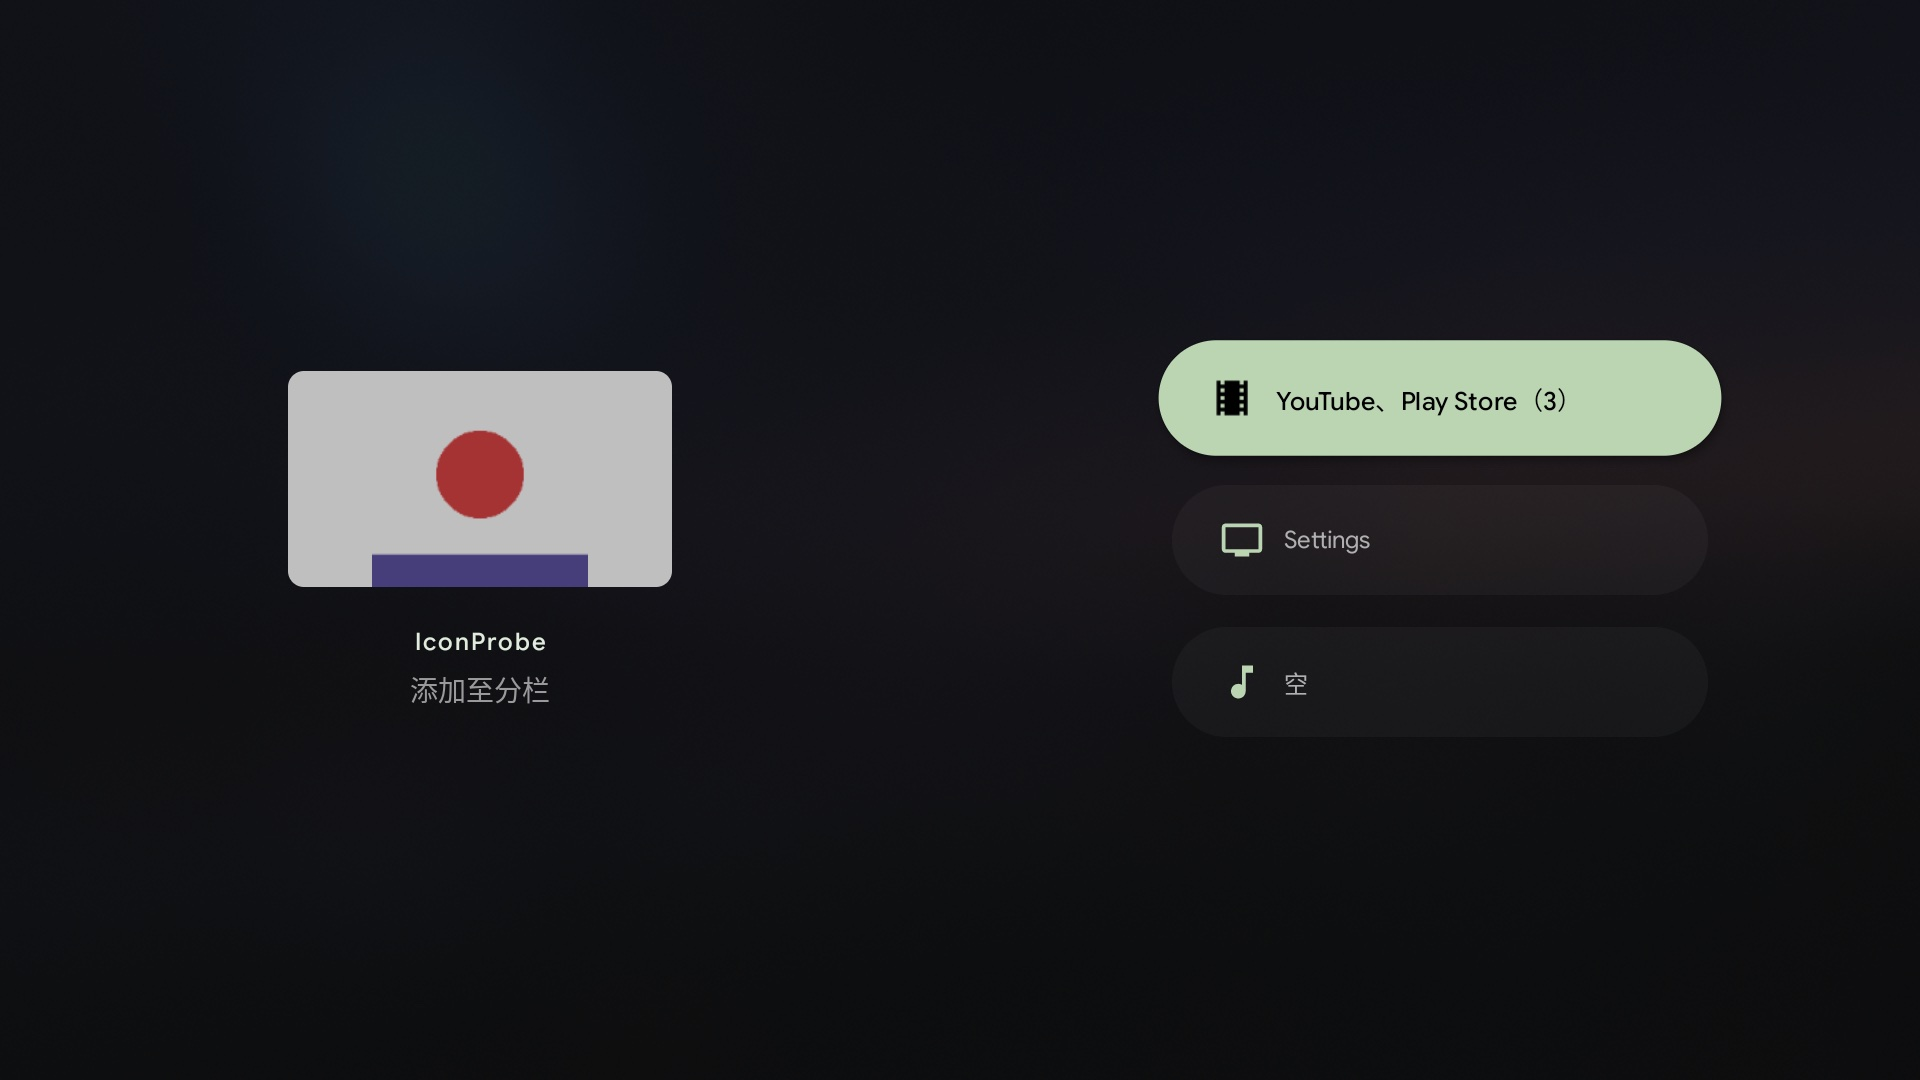
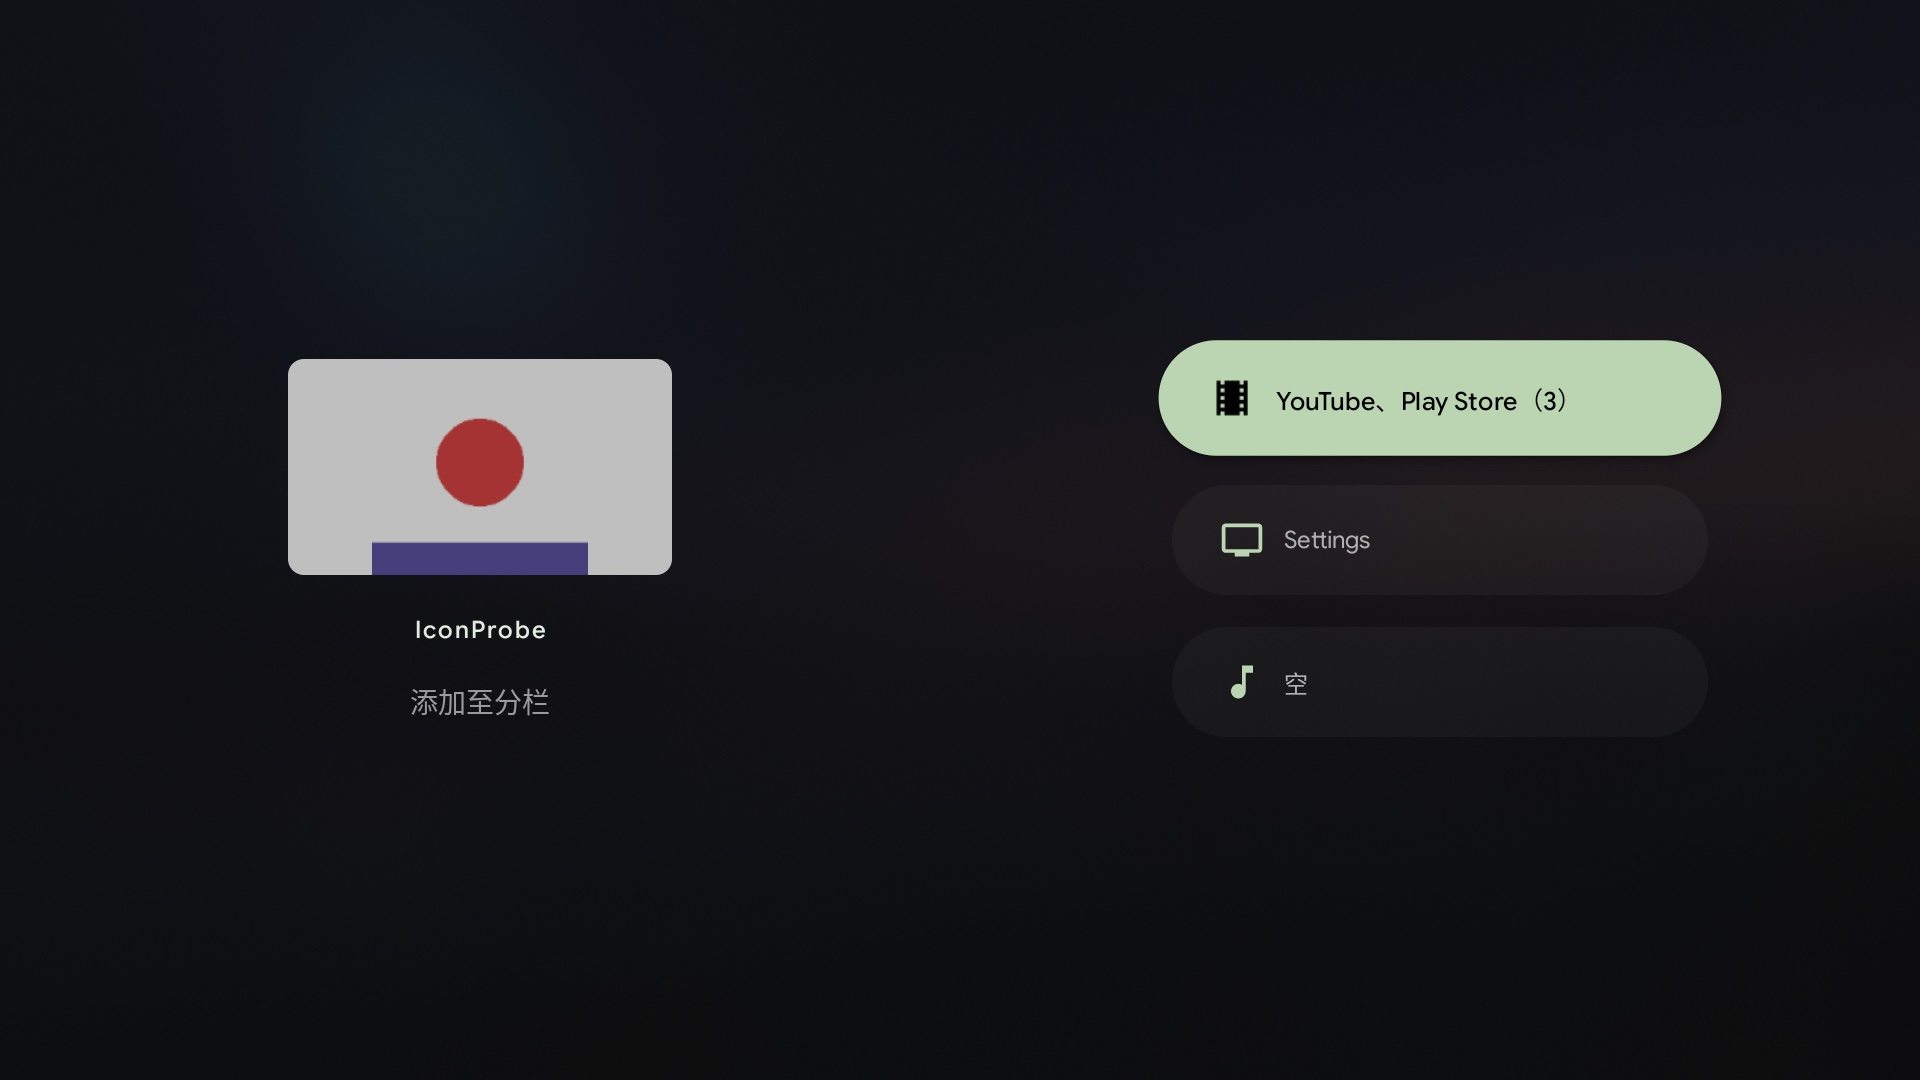
look: 「添加至分栏」与应用名拉开 18 dp

Changed region(s): [[0.1562, 0.3056, 0.3438, 0.4278], [0.1562, 0.4583, 0.3438, 0.55], [0.2188, 0.5806, 0.2812, 0.6722]]

diff --git a/app/src/main/java/com/uniteduone/launcher/GearMenu.kt b/app/src/main/java/com/uniteduone/launcher/GearMenu.kt
@@ -227,7 +227,8 @@ private fun MenuBanner(app: AppEntry, name: String, body: String? = null) {
         // 这一页是干什么的(2026-10-02 Gordon:应用页「加到桌面… → 选一行」左边得写「添加至分栏」,文案才通顺):
         // 名字下一行、说明那一档灰;只有第二层传,第一层(打开 / 卸载 / 加到桌面…)不写。
         if (body != null) {
-            Spacer(Modifier.height(6.dp))
+            // 与应用名拉开一段(2026-10-02 Gordon:6 dp 紧贴着不好看)
+            Spacer(Modifier.height(18.dp))
             BasicText(text = body, style = Type.body.copy(textAlign = TextAlign.Center))
         }
     }
